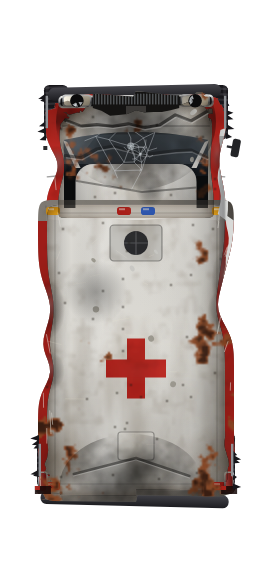
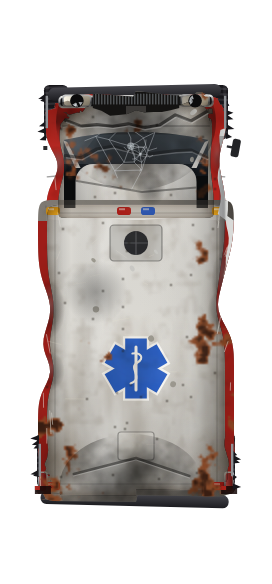
Handoff quick wins: salt lick lure gate, Star of Life, Blueprint on canyon, stale docs

Changed region(s): [[0.3824, 0.5548, 0.6176, 0.7089]]

diff --git a/scripts/art/car_gen.js b/scripts/art/car_gen.js
@@ -184,6 +184,17 @@ function seam(C,pts,w){ const ctx=C.ctx, L=C.look; ctx.beginPath(); ctx.moveTo(p
 	if(!L.flat){ ctx.save(); ctx.translate(.45,.45); ctx.strokeStyle='rgba(255,255,255,.13)'; ctx.lineWidth=.45; ctx.stroke(); ctx.restore(); } }
 function chromeGrad(ctx,x0,y0,x1,y1){ const g=ctx.createLinearGradient(x0,y0,x1,y1); g.addColorStop(0,'#f2f2ee'); g.addColorStop(.45,'#9a9c9f'); g.addColorStop(.6,'#5f6265'); g.addColorStop(1,'#d5d6d4'); return g; }
 function ringPath(ctx,outer,inner){ ctx.beginPath(); poly(ctx,outer,true); poly(ctx,inner,true); }
+/* the ambulance's emblem: a blue Star of Life (three bars at 60°, a white edge) with a white staff and snake
+ down the middle; the red cross is a protected emblem, so the game never draws it */
+function starOfLife(ctx,cx,cy,r){ const t=r*.36;
+	ctx.save(); ctx.translate(cx,cy);
+	for(const pass of [0,1]) for(let k=0;k<3;k++){ ctx.save(); ctx.rotate(k*Math.PI/3); const e=pass?0:1.1;
+		ctx.fillStyle=pass?'#2a5fc4':'#f6f5f1'; ctx.fillRect(-t-e,-r-e,(t+e)*2,(r+e)*2); ctx.restore(); }
+	ctx.strokeStyle='#f6f5f1'; ctx.lineCap='round'; ctx.lineWidth=Math.max(.8,r*.1);
+	ctx.beginPath(); ctx.moveTo(0,-r*.72); ctx.lineTo(0,r*.72); ctx.stroke();
+	ctx.lineWidth=Math.max(.6,r*.07); ctx.beginPath(); ctx.moveTo(-r*.18,r*.5);
+	ctx.bezierCurveTo(r*.3,r*.3,-r*.3,0,r*.05,-r*.2); ctx.bezierCurveTo(r*.3,-r*.35,r*.15,-r*.55,-r*.12,-r*.5); ctx.stroke();
+	ctx.restore(); }
 
 function drawShadow(C){
 	const ctx=C.ctx, res=C.res, off=4000;
@@ -419,7 +430,7 @@ trailer:{layer:'paint',fn(C,s){ const sh=C.shells.find(q=>q.p.box==='trailer'); 
 ambuBox:{layer:'paint',fn(C,s){ const p=C.sp.parts[1]; const sh=C.shells[1]; if(s!==sh) return; const ctx=C.ctx, y0=p.y0+p.rimF, y1=p.y1-p.rimR-(C.stage?C.dm.crushR:0), w=p.W/2-p.rim;
 	ctx.save(); ringPath(ctx,sh.outer,sh.top); ctx.clip('evenodd'); ctx.fillStyle='#b8231d'; ctx.fillRect(-60,y0+8,120,y1-y0-16); ctx.restore();
 	ctx.save(); poly(ctx,sh.top); ctx.clip(); ctx.strokeStyle='rgba(0,0,0,.16)'; ctx.lineWidth=.6; ctx.strokeRect(-w+4,y0+4,w*2-8,y1-y0-8); ctx.restore();
-	const cy=(y0+y1)/2+10; ctx.fillStyle='#b8231d'; ctx.fillRect(-4.5,cy-15,9,30); ctx.fillRect(-15,cy-4.5,30,9);
+	const cy=(y0+y1)/2+10; starOfLife(ctx,0,cy,15);
 	rrect(ctx,-13,y0+10,26,18,2); ctx.fillStyle=css(shade(C.look.base,-.12)); ctx.fill(); ctx.strokeStyle='rgba(0,0,0,.35)'; ctx.lineWidth=.6; ctx.stroke(); ctx.beginPath(); ctx.arc(0,y0+19,6,0,7); ctx.fillStyle='#2b2c2f'; ctx.fill(); ctx.strokeStyle='#55575b'; ctx.beginPath(); ctx.moveTo(-6,y0+19); ctx.lineTo(6,y0+19); ctx.moveTo(0,y0+13); ctx.lineTo(0,y0+25); ctx.stroke();
 	rrect(ctx,-9,y1-30,18,14,1.5); ctx.fillStyle=css(shade(C.look.base,-.06)); ctx.fill(); ctx.strokeStyle='rgba(0,0,0,.3)'; ctx.stroke();
 	const lamp=(x,y,c)=>{ rrect(ctx,x-3.5,y-2,7,4,1.4); ctx.fillStyle=c; ctx.fill(); ctx.fillStyle='rgba(255,255,255,.55)'; ctx.fillRect(x-2.5,y-1.4,3,1); };
@@ -752,7 +763,7 @@ function drawSide(C){
 			for(let x=g.xr+6;x<g.xf-3;x+=9){ ctx.fillStyle='rgba(0,0,0,.14)'; ctx.fillRect(x,g.lo,1.1,g.hi-g.lo); ctx.fillStyle='rgba(255,255,255,.14)'; ctx.fillRect(x+1.1,g.lo,.8,g.hi-g.lo); }
 			ctx.fillStyle='#2a2b2e'; ctx.fillRect(B.x0,g.lo,B.x1-B.x0,4.5); for(let x=g.xr+2,k=0;x<g.xf-2;x+=6,k++){ ctx.fillStyle=k%2?'#e8e6df':'#b8231d'; ctx.fillRect(x,g.lo+4.5,6,2.2); }
 			sideSeam(C,g.xr+3.4,g.lo+4.5,g.xr+3.4,g.hi-1.5,.7); }
-		if(g.box&&has('ambuBox')){ const cx=(g.xf+g.xr)/2-8, cz=66; ctx.fillStyle='#b8231d'; ctx.fillRect(cx-4,cz-12,8,24); ctx.fillRect(cx-12,cz-4,24,8);
+		if(g.box&&has('ambuBox')){ const cx=(g.xf+g.xr)/2-8, cz=66; starOfLife(ctx,cx,cz,12);
 			ctx.strokeStyle='rgba(0,0,0,.3)'; ctx.lineWidth=.6; ctx.strokeRect(g.xf-30,g.lo+4,22,g.hi-g.lo-12);
 			rpoly(ctx,[[g.xf-26,g.hi-30,1.5],[g.xf-26,g.hi-14,1.5],[g.xf-12,g.hi-14,1.5],[g.xf-12,g.hi-30,1.5]]); const gg=ctx.createLinearGradient(0,g.hi-14,0,g.hi-30); gg.addColorStop(0,css(L.glassTop)); gg.addColorStop(1,css(L.glassBot)); ctx.fillStyle=gg; ctx.fill(); }
 		if(g.p.sleeper){ ctx.strokeStyle='rgba(0,0,0,.4)'; ctx.lineWidth=.8; for(let z=80;z<93;z+=2.6){ ctx.beginPath(); ctx.moveTo(49,z); ctx.lineTo(60,z); ctx.stroke(); } }

diff --git a/docs/GOONS.md b/docs/GOONS.md
@@ -14,7 +14,7 @@
 | `scene/enemy/goon_verbs.gd` | `GoonVerbs`, the 21 behaviours as small state machines. |
 | `scene/enemy/goon_fx.gd` | `GoonFx`: telegraphs, projectiles, hazards, blasts, tethers, crush decals, bits, labels and delayed drops. |
 | `scene/enemy/spawnManager.gd` | Spawning (single goons, packs, bursts), scene loading, the night flag, crush credit. |
-| `scripts/world/level_roster.gd` | `LevelRoster`: who holds the land on a level (`LevelDef.factionBand`, `LevelDef.roster`) and a district's three goons. |
+| `scripts/world/level_roster.gd` | `LevelRoster`: a level's line-up (`LevelDef.lineup`, validated) and a district's three goons. |
 | `scripts/global/Region.gd` | The run's regions, one per world district (`WorldMap.districts`): faction, goons, name, tint and the wave timer. |
 | `scripts/world/world_hooks.gd` | `WorldHooks`: how goons read the world (walls, deep water, banks, line of sight). See "The world" below. |
 | `tests/game/test_goons.gd` | Registry vs. baked art, faction coverage, faction and wave rules, crush rules. |
@@ -29,17 +29,15 @@ After a bake that adds new PNGs, run `Godot_console.exe --headless --path . --im
 | Goon Tribe | 2 | One mutant species with tools and tricks | Violet skin, pointed ears, an orange rag, car-junk kit |
 | Scrap Gang | 3 | Anything with an engine or wheels: human raiders, goon drivers, junk machines | Gang teal on every vehicle |
 
-- **Regions are the world map's districts** (docs/WORLD.md, "Districts"): each district's faction, three goons, name and landmark are decided once, seeded per district. The faction comes from the distance to the start, clamped to the level's `factionBand` (`LevelRoster.factionAt`; below `Goons.WILD_BELOW` 1.0 Wild, below `TRIBE_BELOW` 2.2 Tribe, else Scrap). `Goons.factionFor` is only the fallback with no level def.
-- **A district's three goons** (`LevelRoster.pickGoons`) come from the level's roster for that faction: goon 1 the lowest rank (fodder), goons 2 and 3 specials or heavies.
+- **Regions are the world map's districts** (docs/WORLD.md, "Districts"): each district's three goons, name and landmark are decided once, seeded per district, from the level's line-up (see Classes below). The district's faction is its first goon's.
 - **Wave mix** (`WAVE_MIX`): in wave 1 the district spawns goon 1 95% of the time; goons 2 and 3 grow more common over waves 2 to 4. The wave is the run's (one clock wherever the car drives, `Region.wave`), and the spawner's escalation adds a wave every 2 minutes on top (`SpawnManager.pickGoonId`).
 - **Region data:** `Region.currentRegion` (`faction`, `name`, `giantism`, `goon` = goon ids) and `Region.factionName()`. The wave is the run's (`Region.wave`), not the district's.
 - **Crush XP:** each crush earns gift box XP by rank (1 / 3 / 8), ×4 for a giant, ×10 for a boss (docs/PICKUPS.md, "Gift boxes").
 - **Goonopedia:** a goon shows once crushed; the console's `unlock goons` / `lock goons` override that.
-- **Testing:** `-- --faction=wild|tribe|scrap` forces every district's faction, and `-- --goons=a,b,c` forces its three goons. Both work with `--playtest` and `--bench`.
 
 ## Classes
 
-The road atlas (docs/WORLD.md, "The levels", "Regions") replaces the faction band, the per-level rosters and `--faction=` above. A goon keeps its faction: its colours, goo, drop weights, the EMP's target and the `crushed:<faction>` unlock counters are unchanged. A **class** is only a list of the goons a region may field (`Goons.CLASSES`, `CLASS_ORDER`, `classMembers`, `className`, `isElite`, `classesOf`):
+The road atlas (docs/WORLD.md, "The levels", "Regions") picks goons by class, not faction. A goon keeps its faction: its colours, goo, drop weights, the EMP's target and the `crushed:<faction>` unlock counters are unchanged. A **class** is only a list of the goons a region may field (`Goons.CLASSES`, `CLASS_ORDER`, `classMembers`, `className`, `isElite`, `classesOf`):
 
 | Class | Kind | Region | Members |
 |---|---|---|---|

diff --git a/docs/HANDOFF.md b/docs/HANDOFF.md
@@ -14,12 +14,12 @@ The Region 1 design (props, systems, ids R-/G-/L-) is in the session study, summ
 
 | # | Task | Where | Done when |
 |---|---|---|---|
-| Q1 | **Salt lick lure cost.** Its permanent lure makes every goon read `Pickups.lures` every tick on Moose Woods. Only heavies should check it, throttled (every 8 ticks). | `scripts/global/pickups.gd` `lureFor`, `walker.gd` lure read | Test: a non-heavy goon never reads the salt lick; no per-tick allocation |
-| Q2 | **Stale docs.** docs/WORLD.md "Interactive props" doesn't list the Region 1 spills (still, sluice, rockslide, TNT, topples, deadfall, pumpkins, apples, dens, burrows, bell, salt lick). | docs/WORLD.md; source of truth `scripts/world/spill.gd`, `breakable.gd` | Docs only |
-| Q3 | **Stale comments.** bench.gd/playtest.gd still mention "faction band and roster"; GOONS.md lines about `--faction=` and the faction band (now classes and `--class=`). | those files | Text only |
-| Q4 | **Elite escort goon** (pending author OK: recommended). Add one rank-1 goon to line-ups with none: Goon Quarry + Grunt; War Machine levels (blastpits, tankfarm, slagfields, theline, crusher) + Grunt; Big Game levels + Yipper. | `world/levels/*.tres` `lineup` | test_levels passes; AI playtest on crusher survives longer than 25 s |
-| Q5 | **Ambulance emblem** (pending author OK). Replace the red cross (a protected emblem) with a Star of Life on the top-down sheets and the side view. | `scripts/art/car_gen.js`, re-bake `python scripts/art/bake_cars.py ambulance` | Contact sheet looks right; no PNG hand edits |
-| Q6 | **Blueprint unlock** fires on `open:quarry`, now the 10th level (was 4th). Move it to `open:canyon` (4th). | `scripts/global/pickups.gd` / unlocks data | test_unlocks passes |
+| Q1 | (Done: `Pickups.lureCheckDue`) **Salt lick lure cost.** Its permanent lure makes every goon read `Pickups.lures` every tick on Moose Woods. Only heavies should check it, throttled (every 8 ticks). | `scripts/global/pickups.gd` `lureFor`, `walker.gd` lure read | Test: a non-heavy goon never reads the salt lick; no per-tick allocation |
+| Q2 | (Done) **Stale docs.** docs/WORLD.md "Interactive props" doesn't list the Region 1 spills (still, sluice, rockslide, TNT, topples, deadfall, pumpkins, apples, dens, burrows, bell, salt lick). | docs/WORLD.md; source of truth `scripts/world/spill.gd`, `breakable.gd` | Docs only |
+| Q3 | (Done) **Stale comments.** bench.gd/playtest.gd still mention "faction band and roster"; GOONS.md lines about `--faction=` and the faction band (now classes and `--class=`). | those files | Text only |
+| Q4 | (Deferred: moved to GAMEPLAY_SUGGESTIONS.md "Maybe") **Elite escort goon** (pending author OK: recommended). Add one rank-1 goon to line-ups with none: Goon Quarry + Grunt; War Machine levels (blastpits, tankfarm, slagfields, theline, crusher) + Grunt; Big Game levels + Yipper. | `world/levels/*.tres` `lineup` | test_levels passes; AI playtest on crusher survives longer than 25 s |
+| Q5 | (Done: blue Star of Life) **Ambulance emblem** (pending author OK). Replace the red cross (a protected emblem) with a Star of Life on the top-down sheets and the side view. | `scripts/art/car_gen.js`, re-bake `python scripts/art/bake_cars.py ambulance` | Contact sheet looks right; no PNG hand edits |
+| Q6 | (Done) **Blueprint unlock** fires on `open:quarry`, now the 10th level (was 4th). Move it to `open:canyon` (4th). | `scripts/global/pickups.gd` / unlocks data | test_unlocks passes |
 
 ## Medium (worth it; a mid-tier model with care)
 

diff --git a/docs/WORLD.md b/docs/WORLD.md
@@ -469,6 +469,27 @@ Baked STATEFUL props carry their state as metadata on the root (`smashSpeed`, `b
 | `beehive` | Prairie, Bayou (Wild) | 100 px/s or a blast | a swarm hunts the nearest goon within 700 px for 12 s, flattening up to 8, and stings the car (1.5 every 0.4 s) when it is close |
 | `crane` | Quarry, Crusher | rammed at `DROP_SPEED` (320 px/s) or a blast, once | the container falls off the jib's tip over 0.7 s, flattens goons under it, hits the car for 10 if it is there, and stays as a `container` prop |
 
+
+**Region 1 (The Wilds).** The same hook, plus `arm`/`disarm` (called by `PropReactions.addHero` when a prop streams in and when its chunk goes, to restore per-prop state):
+
+| Prop | Where | What it does |
+|---|---|---|
+| `rockpile` | Red Canyon (`pass`) | a rockslide: `ROCKS` (4) spinning `rock_roll` boulders, rolled like logs and credited as rocks ("ROCKSLIDE!") |
+| `tnt` | Red Canyon (`pass`) | an explosive (`BreakableProp.BLAST`, 190 px, 8 damage) |
+| `still` | Snapper Bayou (`bank`) | an explosive (220 px) that leaves fire behind (`BreakableProp.BURNS`, 90 px for 6 s) |
+| `saguaro` (hero ones) | Red Canyon | topples at `SAGUARO_SMASH` (380 px/s) away from what broke it, 6 damage; its spines flatten rank-1 goons (`SPINE_RANK`) |
+| `ranger_tower` | Moose Woods (`track`) | topples across the track, 10 damage ("TIMBER!") |
+| `fallen_trunk` (variant 2, leaning) | Moose Woods (`track`) | a deadfall: drops flat across the trail, 8 damage ("DEADFALL!"); the other variants just break |
+| `sluice` | Snapper Bayou (`ford`) | a flood capsule `FLOOD_LENGTH` (900 px) × `FLOOD_RADIUS` (170 px) along the nearest channel flattens goons in the shallows and on bridges ("SPLASH") |
+| `pumpkin` | Orchard Lanes | bursts in orange bits and keeps the car's speed |
+| `oak` (apples) | Orchard Lanes (`rules.oakCoins`) | its first hit at `OAK_SHAKE` (200 px/s) drops that many coins, once a run |
+| `den` | Prairie, Orchard (rare) | Bandits carry stolen pickups home to it; smashing it bursts them all out ("LOOT RECOVERED"); the stash survives a chunk reload |
+| `burrow` | warrens (a motif) | caves in: the hiding Jackalope is thrown out stunned and spawns no more; the last burrow of its warren: "WARREN CLEARED" |
+| `bell` (Dinner Bell) | Prairie, Orchard (`track`) | rammed at `BELL_RAM` (150 px/s) it calls every goon within `BELL_LURE` (1200 px) for `BELL_SECONDS` (6 s), once a run |
+| `saltlick` | Moose Woods (`clearing`) | a permanent lure (`SALT_LURE` 900 px) for heavies only (`SALT_RANK` 3) while its chunk is loaded; a heavy lets go once the car is within `SALT_LOOSE` (500 px). Goons below a lure's rank never read it, and with only permanent lures out a heavy looks every `Pickups.LURE_POLL` (8) ticks (`Pickups.lureCheckDue`) |
+
+Roosts (`Spill.ROOSTS`): dead trees and scarecrows hold Buzzards; a ram on the trunk knocks them down stunned.
+
 - **Goons cut log piles loose.** Goons with `"releases": true` in `Goons.DATA` (Grunt, Yipper, Splitter) check every 0.5 s in their move state (`GoonVerbs.Verb.seekRelease`): with the car within `LURE_CAR` (900 px) of a pile that is within `LURE_GOON` (650 px) of the goon, it runs to the pile and, within `REACH`, cuts it loose aimed at the car ("TIMBER!"), then goes back to its own business.
 - **Blasts** (`BreakableProp.blastAt`) set off spilling props in their radius with a clear line: piles burst away from the blast, cranes drop their container.
 - **Groups:** `prop_logpile` (goons look for piles), `prop_spill` (blasts).

diff --git a/docs/GAMEPLAY_SUGGESTIONS.md b/docs/GAMEPLAY_SUGGESTIONS.md
@@ -72,7 +72,7 @@ P1 (registry, classes, progression), P2 (landscapes and regions as data) and P4'
 - **P4 art.** Weathered car side views (`CarInfo.sidePic`) for the strip.
 - **P5. New landscapes in three waves** (art: materials, strips, props). Done: the art is baked, every landscape draws its own skin, and the new props, landmarks and posters are wired. Left: the dressing weights are first guesses; `mountain` keeps the plain `pine` (snowy pines there are the author's call); `steam_vent` doesn't glow at night (it would need `"blend": "add"` in the generator's atlas entry).
 - **P6. Level content** for the 22 new levels (posters, twists as data, line-up checks, AI playtests), regions 1 and 2 first for the demo.
-- **P7. Pacing pass:** the level curve, `ModeTiers.LEVEL_STEP` (0.085), Sprint distance by region (20,000 to 34,000 px), the elite steps and the car-clear prices; careers against 15 hours; S3 and S4 on The Sprawl and The Works. `Pickups.DATA`'s Blueprint still opens on `open:quarry`, which is now the 10th level instead of the 4th.
+- **P7. Pacing pass:** the level curve, `ModeTiers.LEVEL_STEP` (0.085), Sprint distance by region (20,000 to 34,000 px), the elite steps and the car-clear prices; careers against 15 hours; S3 and S4 on The Sprawl and The Works.
 
 ### Package 1: Balance pass
 One pass that connects and balances what is built. It absorbs the package 2 follow-ups, the economy (old package 6, minus driver perks), the unlock pace (old 12) and the gift-box curve (old 16). **Targets (the author, 2026-10-08):** about **15+ hours** to finish (all levels open, every mode seen, most cars owned), with maxing out taking longer; every mode earns a similar number of coins per minute; all five modes ship in 1.0, so Defense must be winnable.
@@ -196,6 +196,8 @@ Built (2026-10-08, "Done" above; docs/WORLD.md "Props and decor", "Interactive p
 - Training Grounds; custom seed entry (`TileManager.worldSeed` exists, no UI).
 
 ## Maybe
+
+- **Elite escort goon.** Line-ups with no rank-1 goon have no fodder to crush between heavies. Add one weak escort: Goon Quarry + Grunt; the War Machine levels (blastpits, tankfarm, slagfields, theline, crusher) + Grunt; the Big Game levels + Yipper (`world/levels/*.tres` `lineup`; `test_levels.gd` wants every line-up inside its class, so add the escort to `Goons.CLASSES` too). Check an AI playtest on crusher survives past 25 s. Deferred by the author (2026-10-09).
 
 **Curses** (on hold: they add ways to lose a run). They would be a `K.CURSE` kind in `Pickups.DATA`; icons exist in `scripts/art/pickup_icons.js` (skipped by the generator): Cursed Idol, Glass Cannon, Blood Moon, Devil's Bargain, Gremlin Sack.
 
